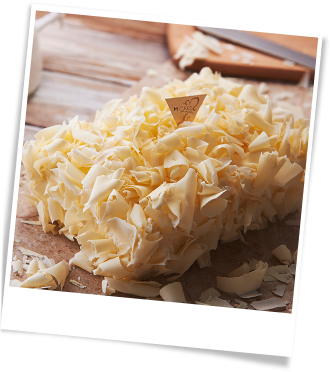
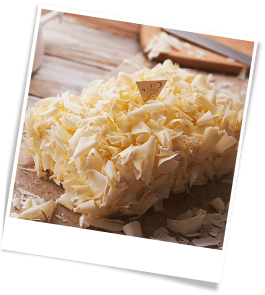
banner修改

diff --git a/src/newYear/banner.html b/src/newYear/banner.html
@@ -8,7 +8,7 @@
     <link type="text/css" rel="stylesheet" href="css/main.css" />
     <!-- endbuild -->
 </head>
-<body>
+<body style="height:2000px;">
 
 <link rel="stylesheet" type="text/css" href="http://ebsig.mcake.com/shop/theme/xth1/css/comm_header.css?v=1458723714">
 <div class="header">
@@ -110,8 +110,8 @@
         z-index: 5;
     }
     .section-banner .q2{
-        left:810px;
-        top:32px;
+        left:760px;
+        top:82px;
     }
     .section-banner .q4{
         left:68px;
@@ -148,9 +148,9 @@
     }
 </style>
 <style>
-    #floater{position:fixed; top:110px; right:10px; z-index:11;}
-    #floater .rules{width:128px; padding:10px; border:1px solid #ff6699; color:#ff6699; font-size:12px; line-height:16px; border-radius:3px; margin-top:-1px;}
-    #floater .floatImg{width:156px; position:relative; font-size:0;}
+    #floater{position:fixed; top:110px; right:10px; z-index:11; width:178px;}
+    #floater .rules{width:156px; padding:10px; border:1px solid #ff6699; color:#ff6699; font-size:12px; line-height:16px; border-radius:3px; margin-top:-1px; background:#f9f3f6;}
+    #floater .floatImg{width:156px; position:relative; font-size:0; margin:0 0 0 17px;}
     #floater .floatImg img{width:100%;}
     #floater .floatImg a{width:100%; display:block; height:144px; position:absolute; top:0; left:0;}
     #floater .ruleHover{position:absolute; cursor:pointer; width:76px; height:26px; top:145px; left:34px;}
@@ -172,7 +172,7 @@
                 <div class="q-price"></div>
             </div>
             <div class="secItem q2" data-anim="slide-down-r" data-delay="1.6">
-                <img src="images/banner/q2.png" width="332" height="372" />
+                <img src="images/banner/q2.png" width="265" height="295" />
             </div>
             <div class="secItem q-spoon" data-anim="slide-down-r">
                 <img src="images/banner/q3.png" width="133" height="165" />
@@ -221,16 +221,18 @@
         var height = $("#evt_container").outerHeight();
         var fHeight = 167;
         var fTop = 110;
+        var fRight = 10;
         var floater = $('#floater');
         var floaterPosition = 'fixed';
+        var winWidth = $(window).width();
         $(window).on("scroll", function(){
             var sTop = $(this).scrollTop();
             if(floaterPosition === 'fixed' &&  sTop > height - fHeight -10 ){
-                floater.css({position: "absolute", top: height - fHeight});
+                floater.css({position: "absolute", top: height - fHeight, right: 1280-winWidth+fRight});
                 floaterPosition = 'absolute';
             }
             if(floaterPosition === 'absolute' && sTop<height-fHeight -10){
-                floater.css({position: "fixed", top: fTop});
+                floater.css({position: "fixed", top: fTop, right:fRight});
                 floaterPosition = 'fixed';
             }
         });
